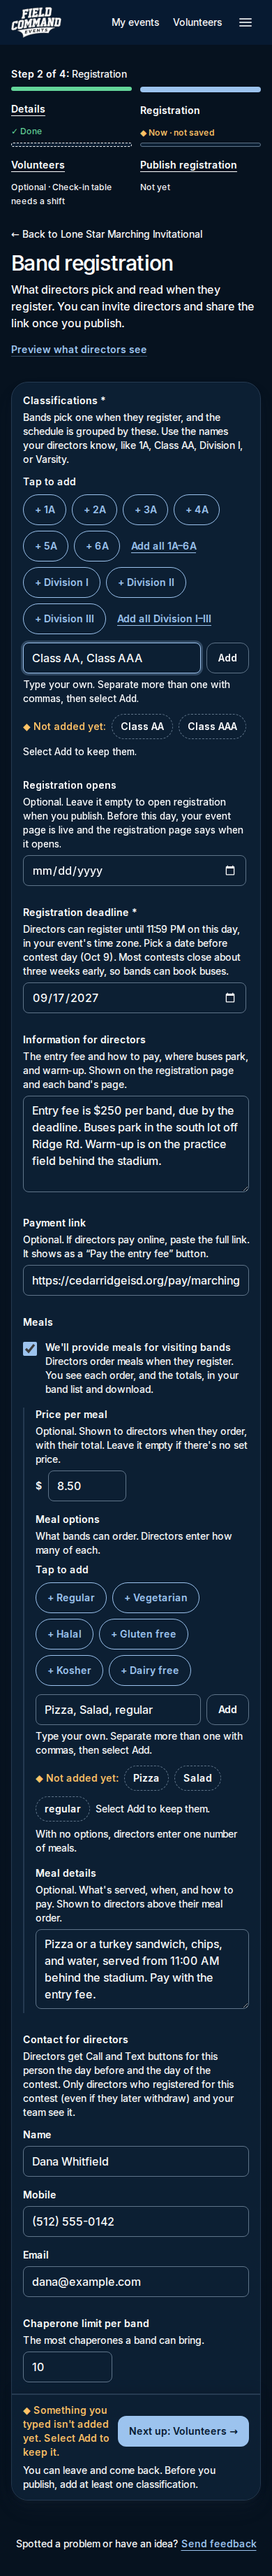
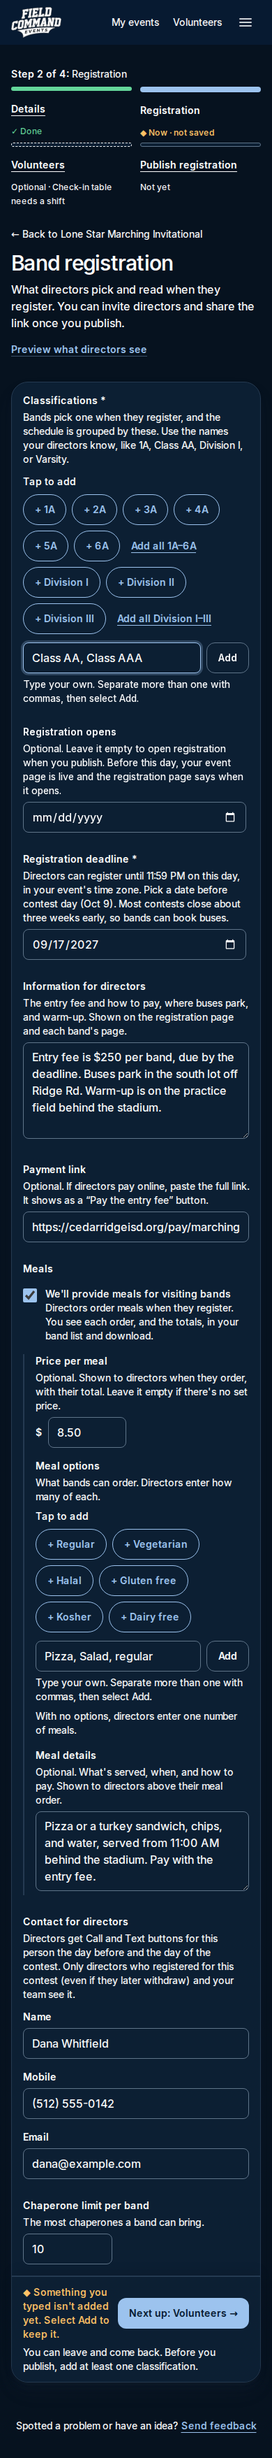
No preview chips while typing: names become chips only when Add is selected
Claude-Session: https://claude.ai/code/session_012QSAnYf9D3RQG6GMrYDPnP

Changed region(s): [[0.0308, 0.0, 0.9538, 0.992], [0.8923, 0.837, 0.9231, 0.868]]

diff --git a/src/components/chip-adder.tsx b/src/components/chip-adder.tsx
@@ -15,8 +15,8 @@ const has = (list: string[], name: string) => list.some((x) => x.toLowerCase() =
 
 /**
  * Adding to a list of names (classifications, meal options), in the same order everywhere:
- * suggestions to tap first, then a box to type your own (more than one, separated by commas),
- * then a preview of what Add will add. Nothing is added until Add (or Enter).
+ * suggestions to tap first, then a box to type your own (more than one, separated by commas).
+ * Nothing is added until Add (or Enter); names already on the list are skipped.
  */
 export function ChipAdder({
   suggestions,
@@ -50,7 +50,6 @@ export function ChipAdder({
   const hintId = `${key}-hint`;
   const previewId = `${key}-preview`;
   const fresh = splitNames(typed).filter((n) => !has(existing, n));
-  const repeats = splitNames(typed).filter((n) => has(existing, n));
   const room = max == null ? Infinity : max - existing.length;
   // Typed but not added: leaving asks first.
   useEffect(() => {
@@ -111,7 +110,7 @@ export function ChipAdder({
             }}
             placeholder={placeholder}
             aria-label={label}
-            aria-describedby={[describedBy, hintId, typed.trim() && previewId].filter(Boolean).join(" ")}
+            aria-describedby={[describedBy, hintId, fresh.some((n) => n.length > maxLength) && previewId].filter(Boolean).join(" ")}
             aria-invalid={invalid || undefined}
             maxLength={maxLength * 4}
             disabled={room <= 0}
@@ -130,27 +129,10 @@ export function ChipAdder({
           {room <= 0 ? `That's the most you can add (${max}).` : "Type your own. Separate more than one with commas, then select Add."}
         </p>
       </div>
-      {typed.trim() && (
-        // What Add will add, before anything is saved.
-        <div id={previewId} className="text-sm" aria-live="polite">
-          {fresh.length > 0 && (
-            <div className="flex flex-wrap items-center gap-2">
-              <span className="font-medium text-warning">
-                <span aria-hidden>◆ </span>Not added yet:
-              </span>
-              {fresh.map((n) => (
-                <span key={n} className="inline-flex min-h-9 items-center rounded-full border-[1.5px] border-dashed border-field-border px-3 font-semibold">
-                  {n.length > maxLength ? `${n.slice(0, maxLength)}…` : n}
-                </span>
-              ))}
-              <span className="text-muted">Select Add to keep {fresh.length === 1 ? "it" : "them"}.</span>
-            </div>
-          )}
-          {fresh.some((n) => n.length > maxLength) && (
-            <p className="mt-1 font-medium text-danger">Keep each one under {maxLength} characters.</p>
-          )}
-          {repeats.length > 0 && <p className="mt-1 text-muted">Already on the list: {repeats.join(", ")}</p>}
-        </div>
+      {fresh.some((n) => n.length > maxLength) && (
+        <p id={previewId} role="alert" className="text-sm font-medium text-danger">
+          Keep each one under {maxLength} characters.
+        </p>
       )}
     </div>
   );
